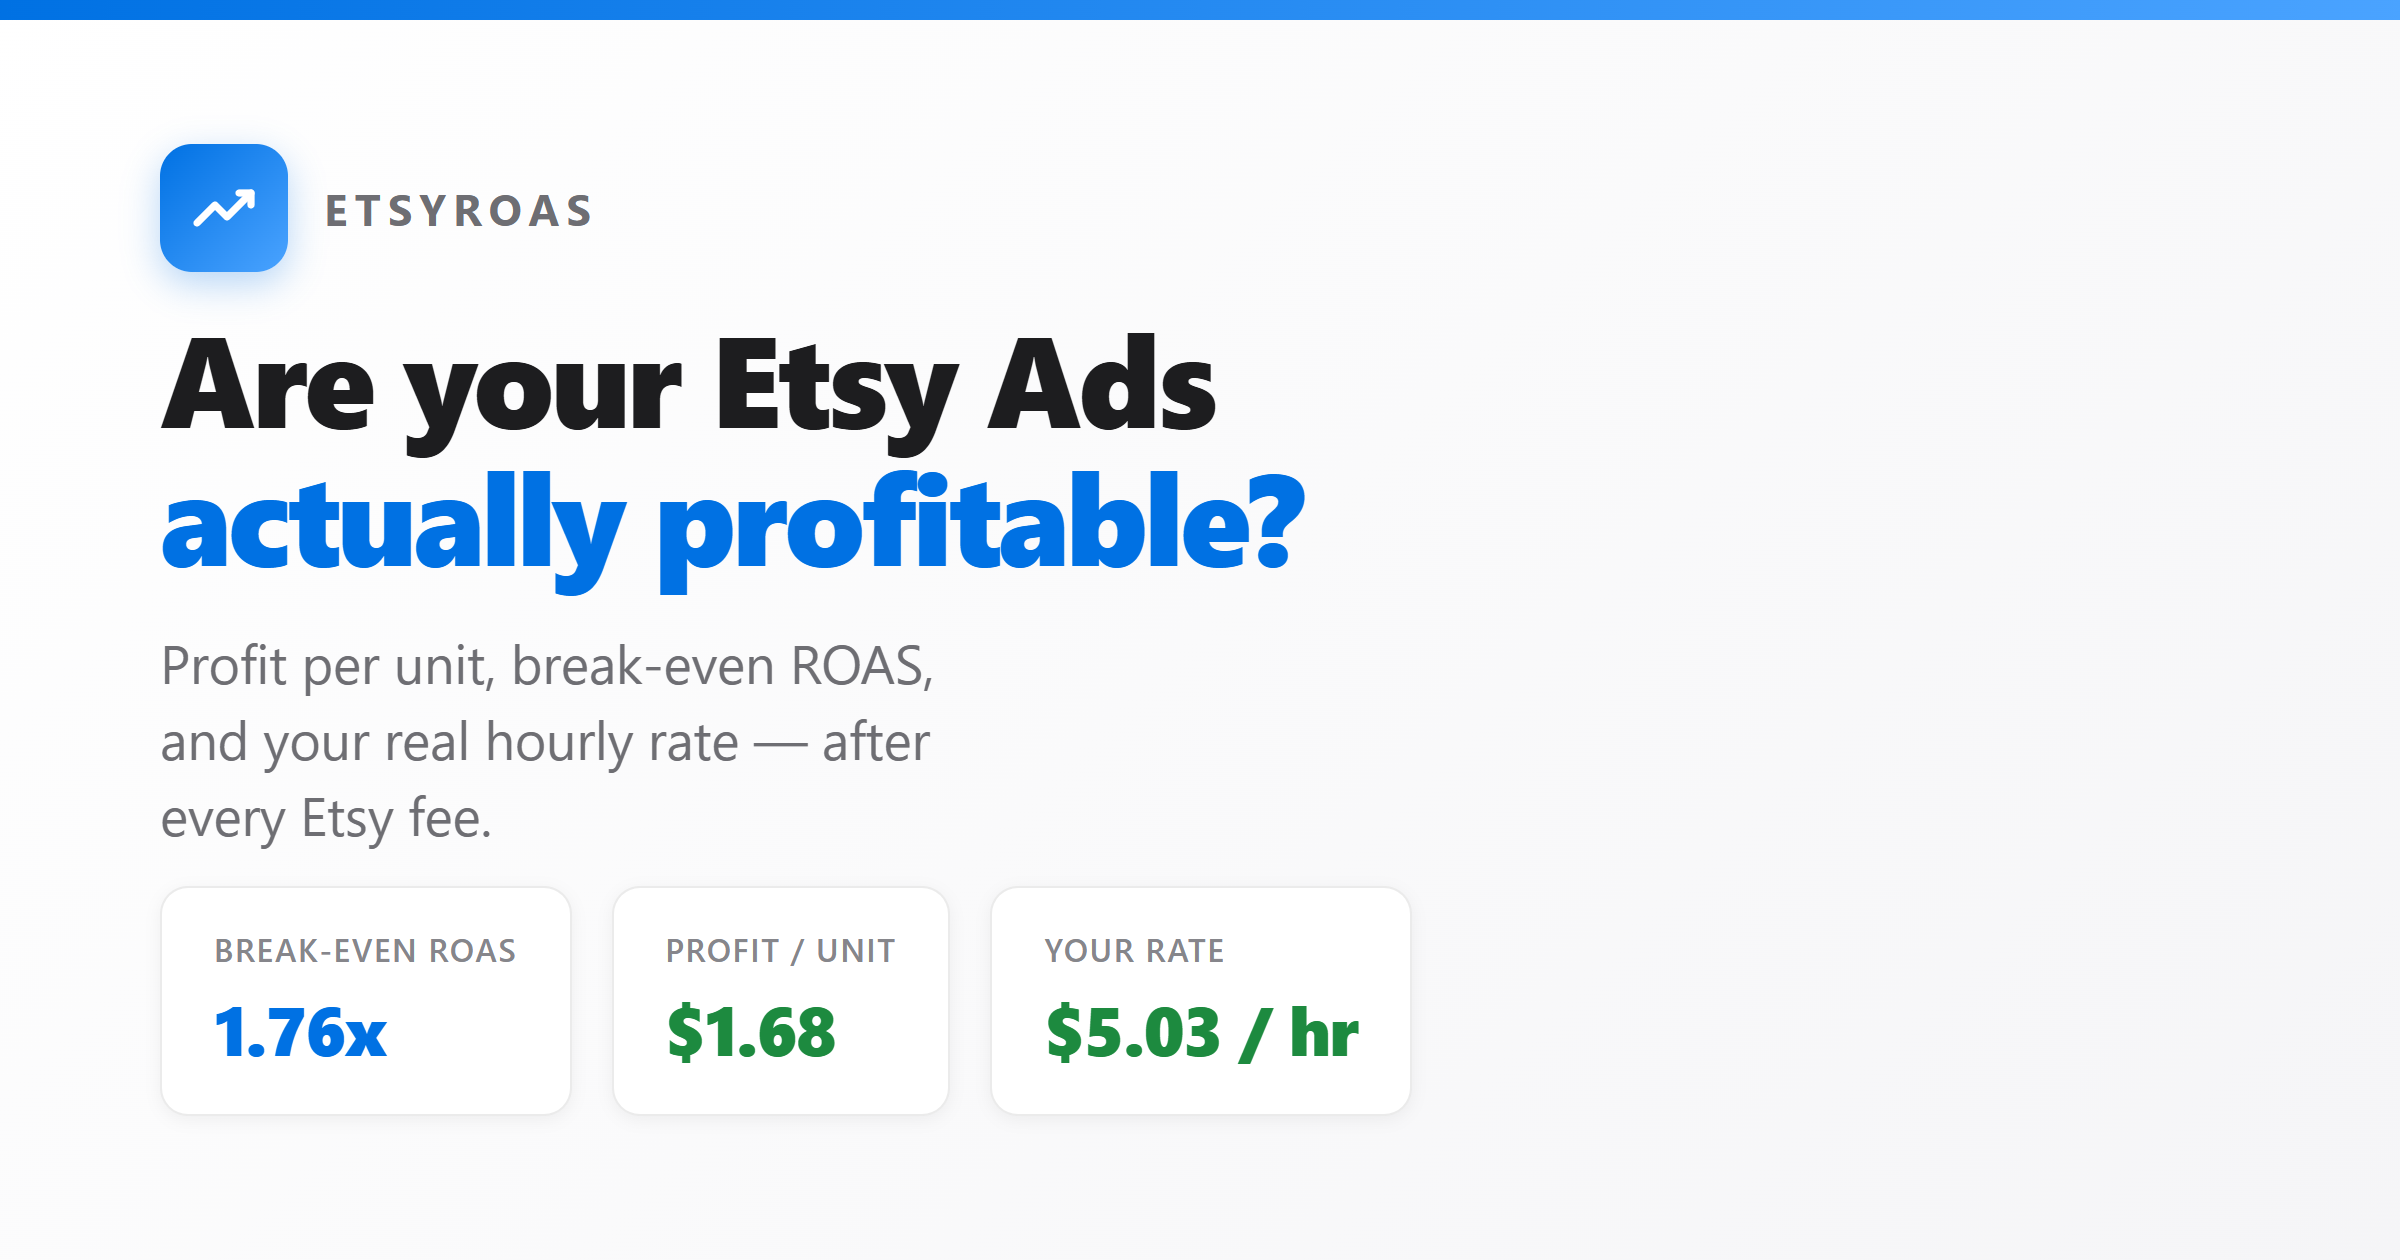
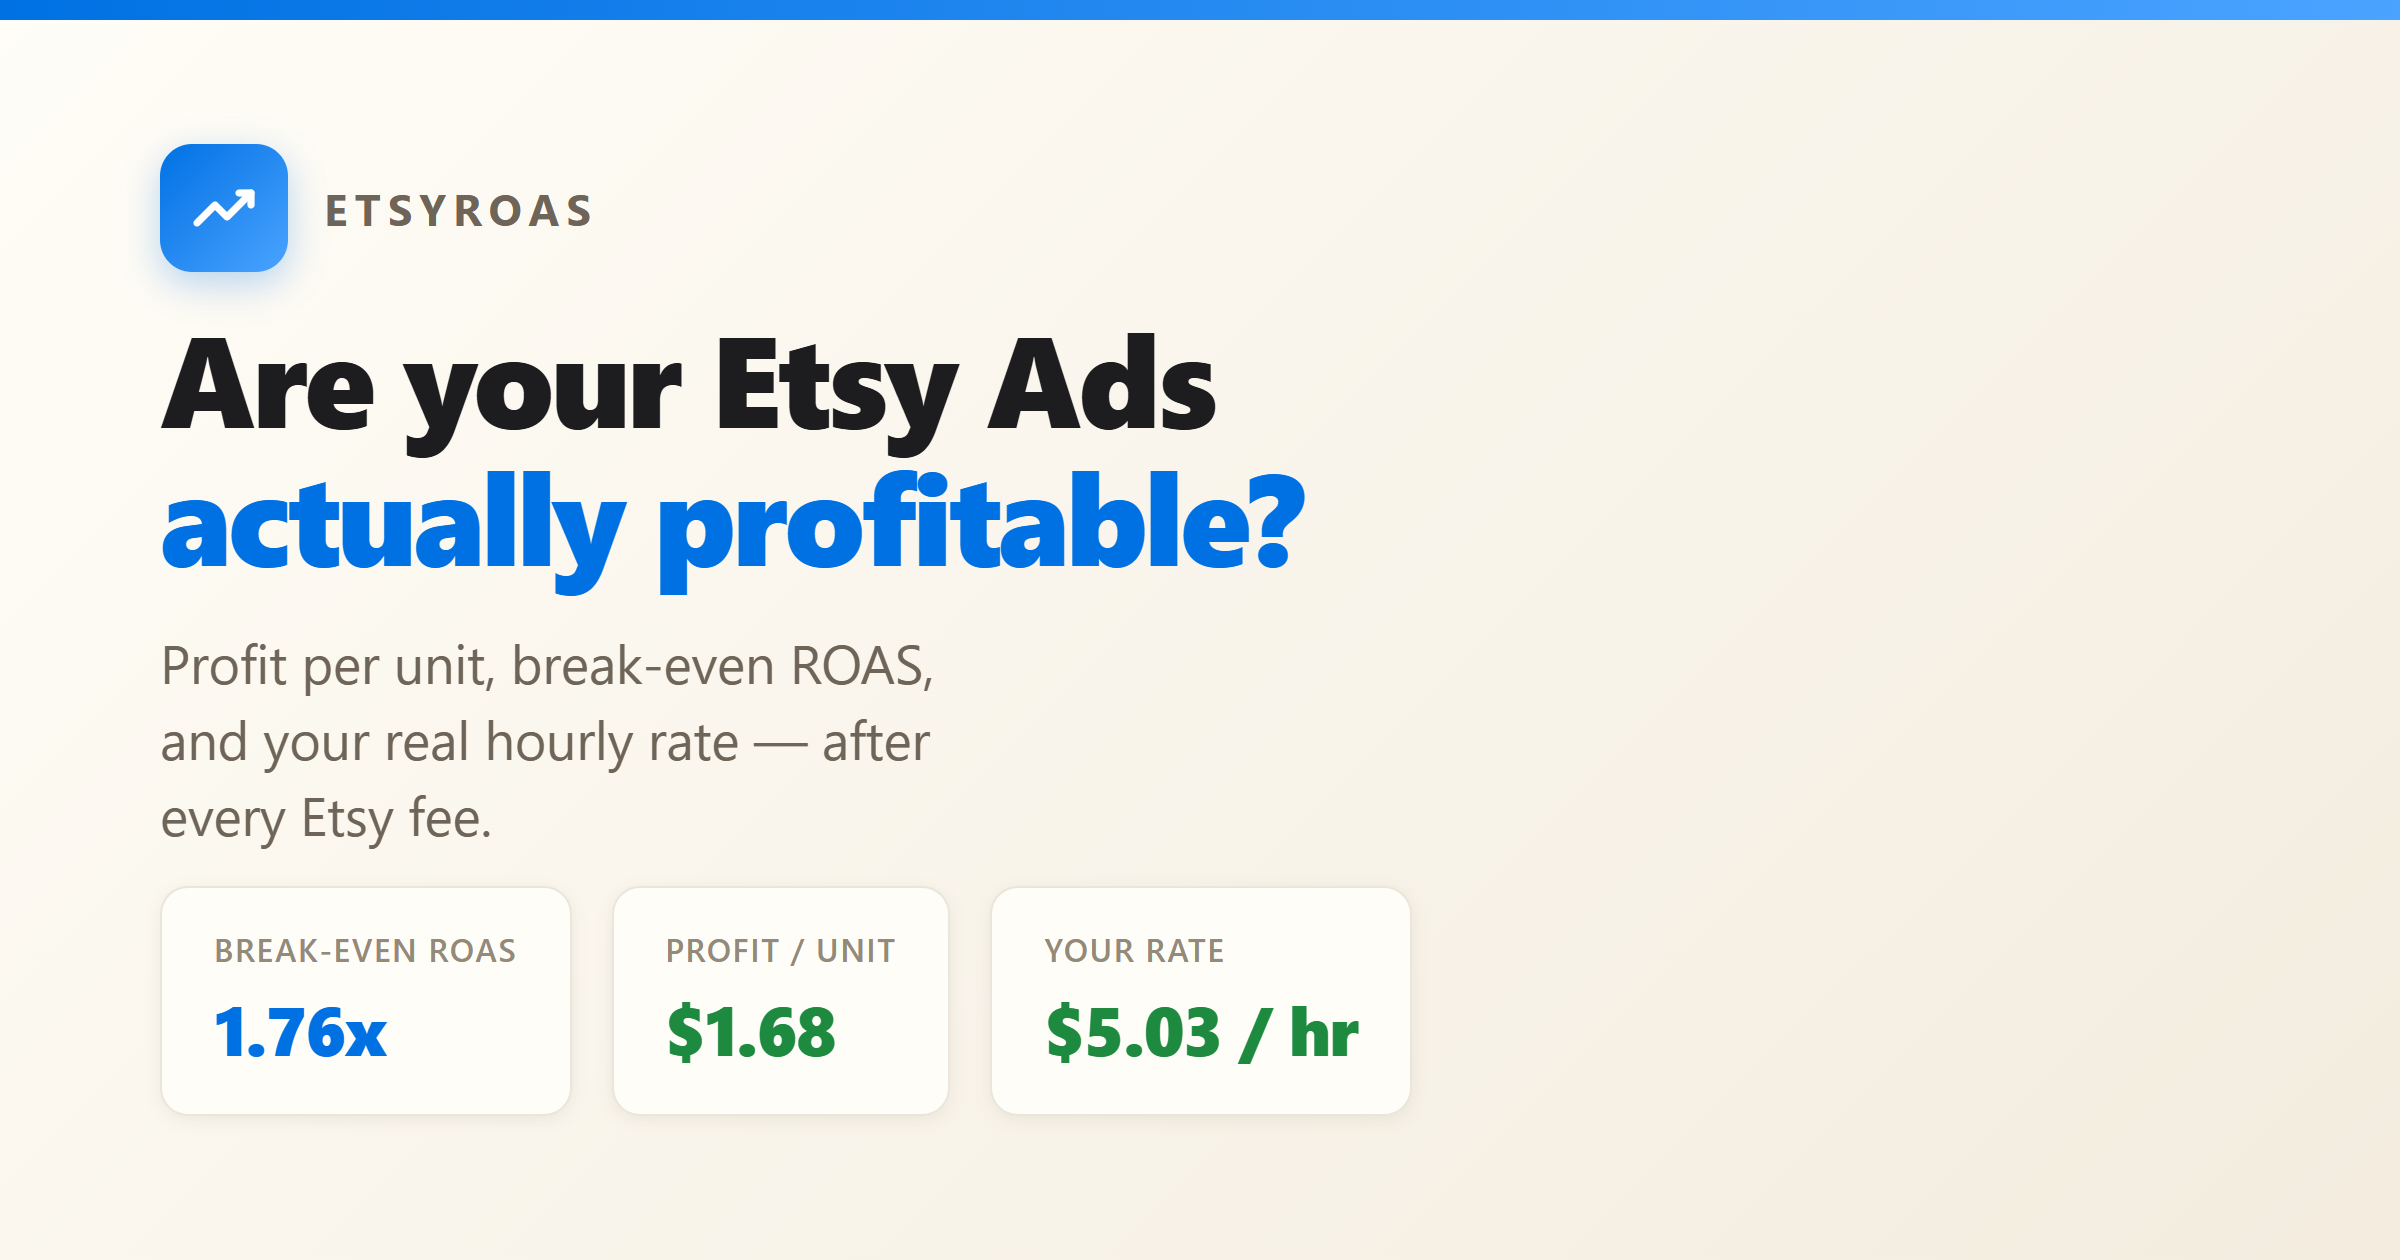
Warm the light-theme surfaces to cream
Swap the cool white/gray surfaces for warm cream tones (page #f3ecdf,
cards #fffdf7, subtle #ece2d0) with warm hairline borders, keeping the
macOS layout, blue accent, and unchanged dark theme.

- index.html: light theme-color now matches the cream page
- og-image.png: regenerate the social card on a cream background
- Regenerate the README screenshots (light, dark, mobile)

Changed region(s): [[0.0625, 0.4952, 0.375, 0.619], [0.0625, 0.5881, 0.3125, 0.681], [0.125, 0.1548, 0.25, 0.1857]]

diff --git a/index.html b/index.html
@@ -24,7 +24,7 @@
       content="A free, privacy-friendly calculator that shows whether your Etsy Ads are actually profitable after every Etsy fee, your costs, taxes, and the value of your time. Runs entirely in your browser."
     />
 
-    <meta name="theme-color" content="#f5f5f7" media="(prefers-color-scheme: light)" />
+    <meta name="theme-color" content="#f3ecdf" media="(prefers-color-scheme: light)" />
     <meta name="theme-color" content="#1c1c1e" media="(prefers-color-scheme: dark)" />
 
     <!-- Open Graph / social cards -->

diff --git a/src/assets/main.css b/src/assets/main.css
@@ -4,12 +4,12 @@
    palette; useTheme.ts sets that attribute on <html>.
    ============================================================ */
 :root {
-  /* Surfaces */
-  --bg-page: #f5f5f7;
-  --bg-card: #ffffff;
-  --bg-subtle: #f5f5f7;
-  --border: rgba(0, 0, 0, 0.08);
-  --border-strong: rgba(0, 0, 0, 0.14);
+  /* Surfaces (warm cream) */
+  --bg-page: #f3ecdf;
+  --bg-card: #fffdf7;
+  --bg-subtle: #ece2d0;
+  --border: rgba(83, 62, 28, 0.1);
+  --border-strong: rgba(83, 62, 28, 0.17);
 
   /* Text */
   --text-primary: #1d1d1f;
